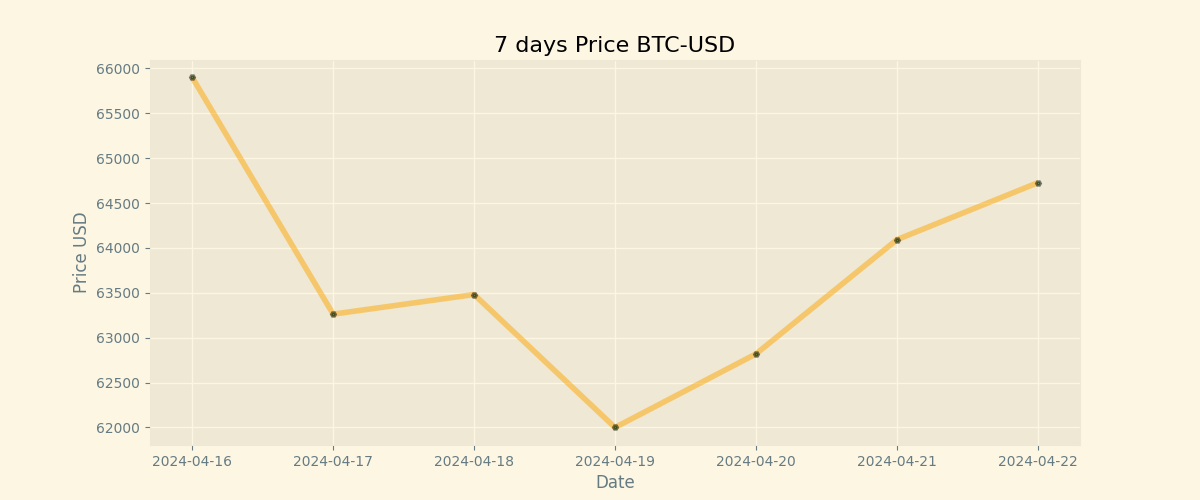
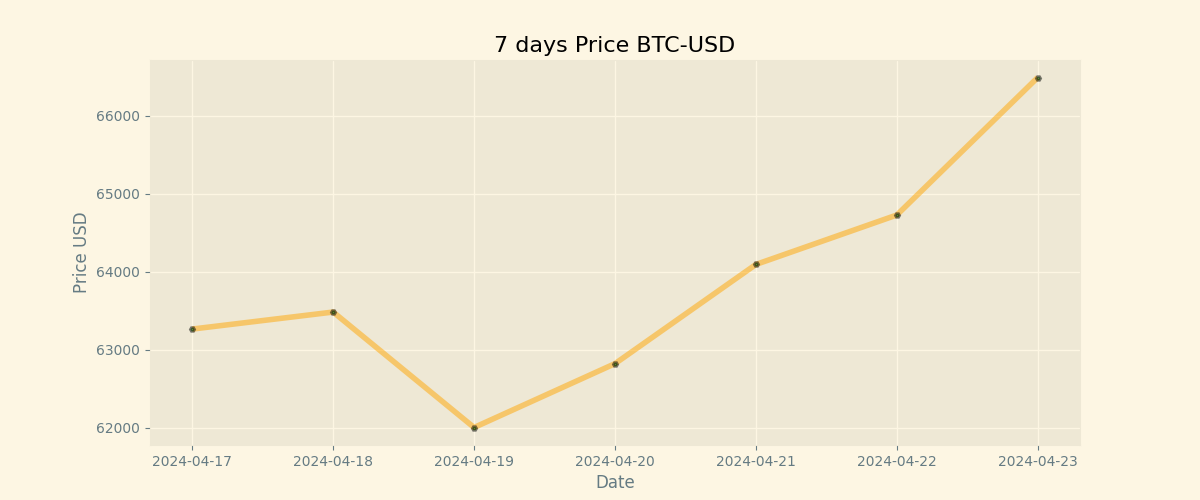
Duty Updates 2024-04-23

diff --git a/README.md b/README.md
@@ -9,8 +9,8 @@
 
 | Currency | Price           |
 | -------- | --------------- |
-| **BTC**  | **$ 64725.15** |
-| **ETH**  | **$ 3142.51** |
+| **BTC**  | **$ 66489.0** |
+| **ETH**  | **$ 3290.0** |
 
 ## BTC chart
 
